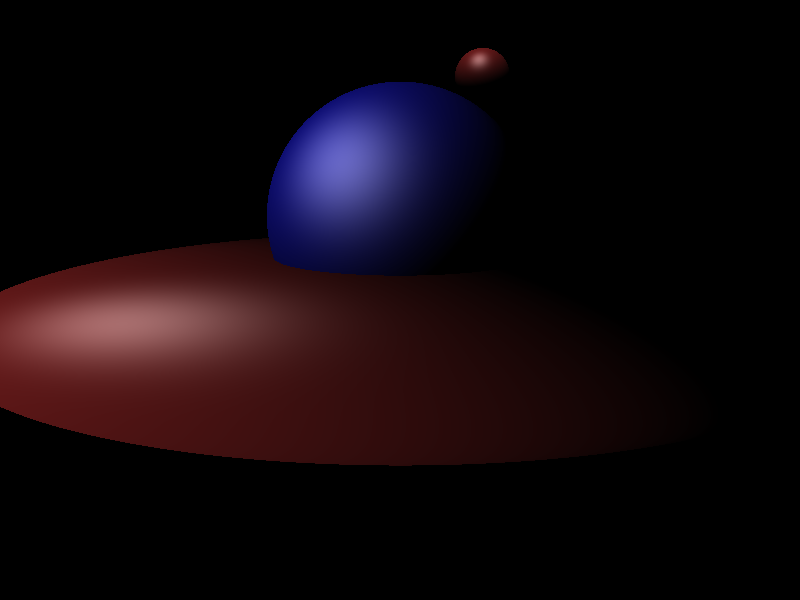
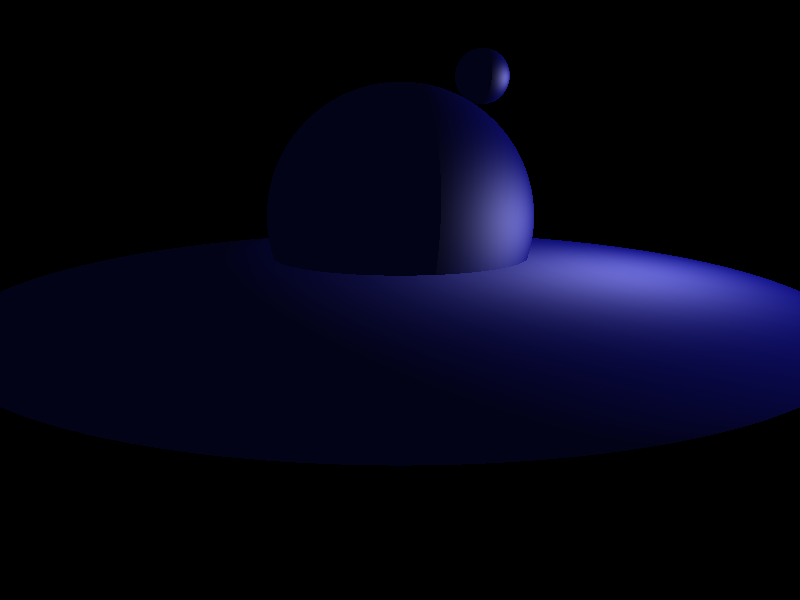
Try something but fail

diff --git a/BHRayTracer/Main.cpp b/BHRayTracer/Main.cpp
@@ -23,15 +23,14 @@ void recursive(int _i, int _j,Node* root, Ray ray, bool &_bHit, float& _closestZ
 			
 			// transform ray to child coordinate
 			Ray transformedRay = root->GetChild(i)->ToNodeCoords(ray);
-
-			// copy lights memory and transform the light to local coordinate
 			HitInfo outHit;
+/*
 			LightList copyLight;
 			for (int j = 0; j < lights.size(); j++)
 			{
 				copyLight.push_back(new GenLight());
 				memcpy(&copyLight[j], &lights[j], sizeof(lights[j]));
-			}
+			}*/
 
 			if (root->GetChild(i)->GetNodeObj()->IntersectRay(transformedRay, outHit, 1))
 			{
@@ -51,14 +50,28 @@ void recursive(int _i, int _j,Node* root, Ray ray, bool &_bHit, float& _closestZ
 							directLight->SetDirection(root->GetChild(j)->VectorTransformTo(directLight->Direction(Vec3f(0, 0, 0))));
 						}
 					}*/
-					Color outColor = outHit.node->GetMaterial()->Shade(transformedRay, outHit, copyLight);
+					// transform light to local
+/*
+					for (auto it = lights.begin(); it != lights.end(); ++it)
+					{
+						GenLight* genLight = dynamic_cast<GenLight*>(*it);
+						genLight->ToLocalCoordinate(root->GetChild(i));
+					}*/
+
+					Color outColor = outHit.node->GetMaterial()->Shade(transformedRay, outHit, lights);
 					renderImage.GetPixels()[_j*camera.imgWidth + _i] = Color24(outColor);
 					renderImage.GetZBuffer()[_j*camera.imgWidth + _i] = outHit.z;
 					_bHit = true;
 				}
 			}
-			recursive(_i, _j, root->GetChild(i), transformedRay, _bHit, _closestZ, copyLight);
-
+			recursive(_i, _j, root->GetChild(i), transformedRay, _bHit, _closestZ, lights);
+			// transform light back to parent
+/*
+			for (auto it = lights.begin(); it != lights.end(); ++it)
+			{
+				GenLight* genLight = dynamic_cast<GenLight*>(*it);
+				genLight->ToParentCoordinate(root->GetChild(i));
+			}*/
 		}
 	}
 }

diff --git a/BHRayTracer/DataStructure/lights.h b/BHRayTracer/DataStructure/lights.h
@@ -22,6 +22,8 @@ class GenLight : public Light
 public:
 	virtual Color Illuminate(Vec3f const &p, Vec3f const &N) const { return Color::Black(); };
 	virtual Vec3f Direction(Vec3f const &p) const { return Vec3f(0,0,0); };
+	virtual void ToLocalCoordinate(Node* root) {};
+	virtual void ToParentCoordinate(Node* root) {};
 protected:
 	void SetViewportParam(int lightID, ColorA ambient, ColorA intensity, Vec4f pos) const;
 };
@@ -51,7 +53,6 @@ public:
 	virtual Color Illuminate(Vec3f const &p, Vec3f const &N) const override { return intensity; }
 	virtual Vec3f Direction(Vec3f const &p) const override { return direction; }
 	virtual void SetViewportLight(int lightID) const { SetViewportParam(lightID, ColorA(0.0f), ColorA(intensity), Vec4f(-direction, 0.0f)); }
-
 	void SetIntensity(Color intens) { intensity = intens; }
 	void SetDirection(Vec3f dir) { direction = dir.GetNormalized(); }
 private:
@@ -70,6 +71,9 @@ public:
 	virtual void SetViewportLight(int lightID) const { SetViewportParam(lightID, ColorA(0.0f), ColorA(intensity), Vec4f(position, 1.0f)); }
 	void SetIntensity(Color intens) { intensity = intens; }
 	void SetPosition(Vec3f pos) { position = pos; }
+	virtual void ToLocalCoordinate(Node* root) override { position = root->VectorTransformTo(position); }
+	virtual void ToParentCoordinate(Node* root) override { position = root->VectorTransformFrom(position); }
+
 	Vec3f GetPosition() { return position; }
 
 	virtual bool IsPoint() const override{ return true; }

diff --git a/BHRayTracer/DataStructure/MtlBlinn.cpp b/BHRayTracer/DataStructure/MtlBlinn.cpp
@@ -15,7 +15,7 @@ Color MtlBlinn::Shade(Ray const &ray, const HitInfo &hInfo, const LightList &_li
 			// transform light
 			Vec3f vL = (-(*it)->Direction(hInfo.p)).GetNormalized();
 			float cosTheta = vL.Dot(vN);
-			if (cosTheta <= 0) {
+			if (cosTheta < 0) {
 				// from back side
 				break;
 			}
